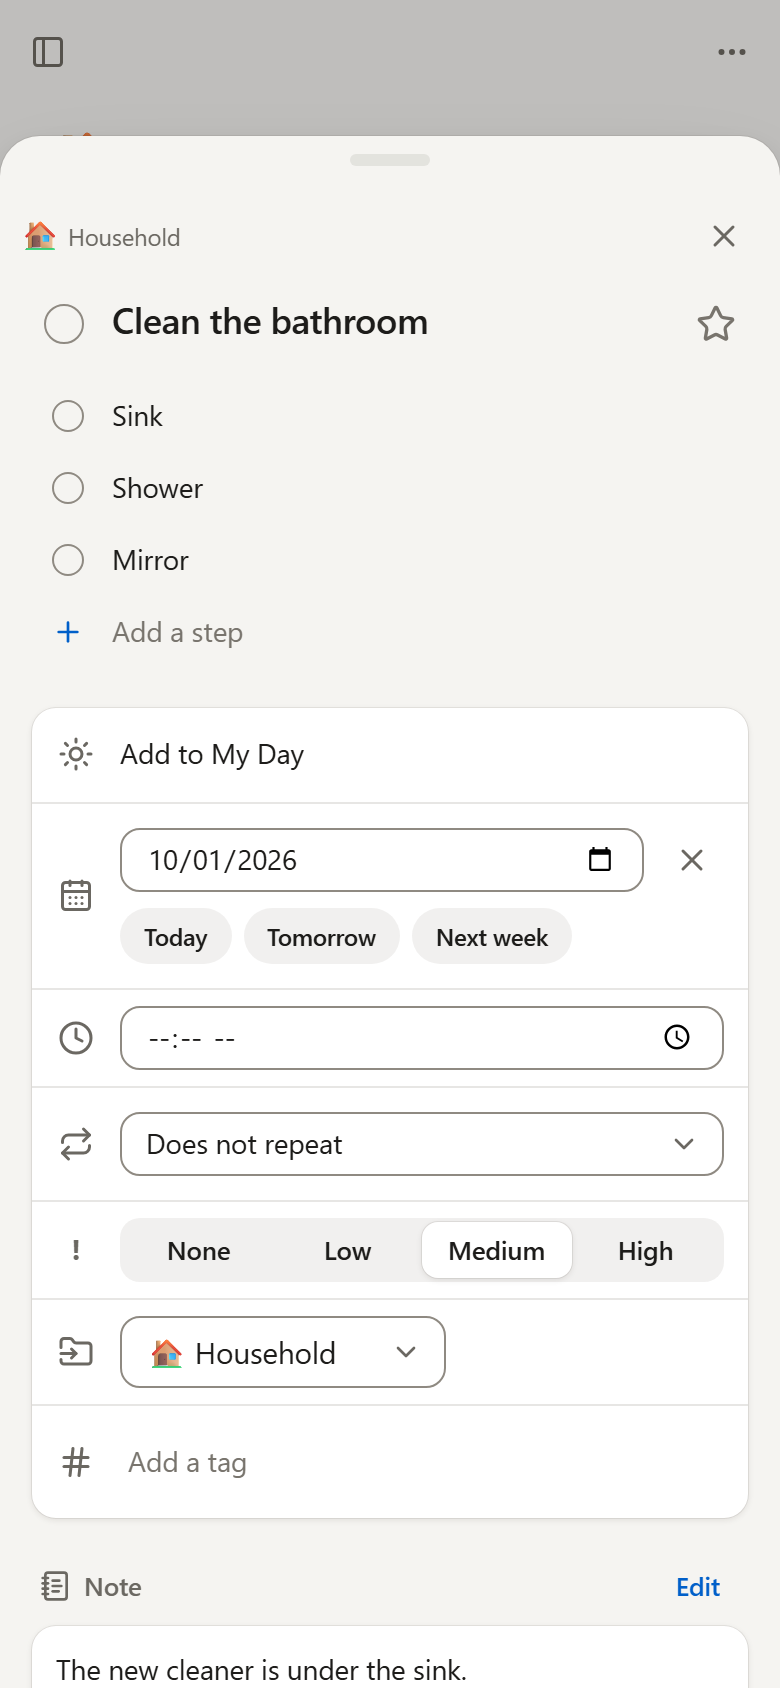
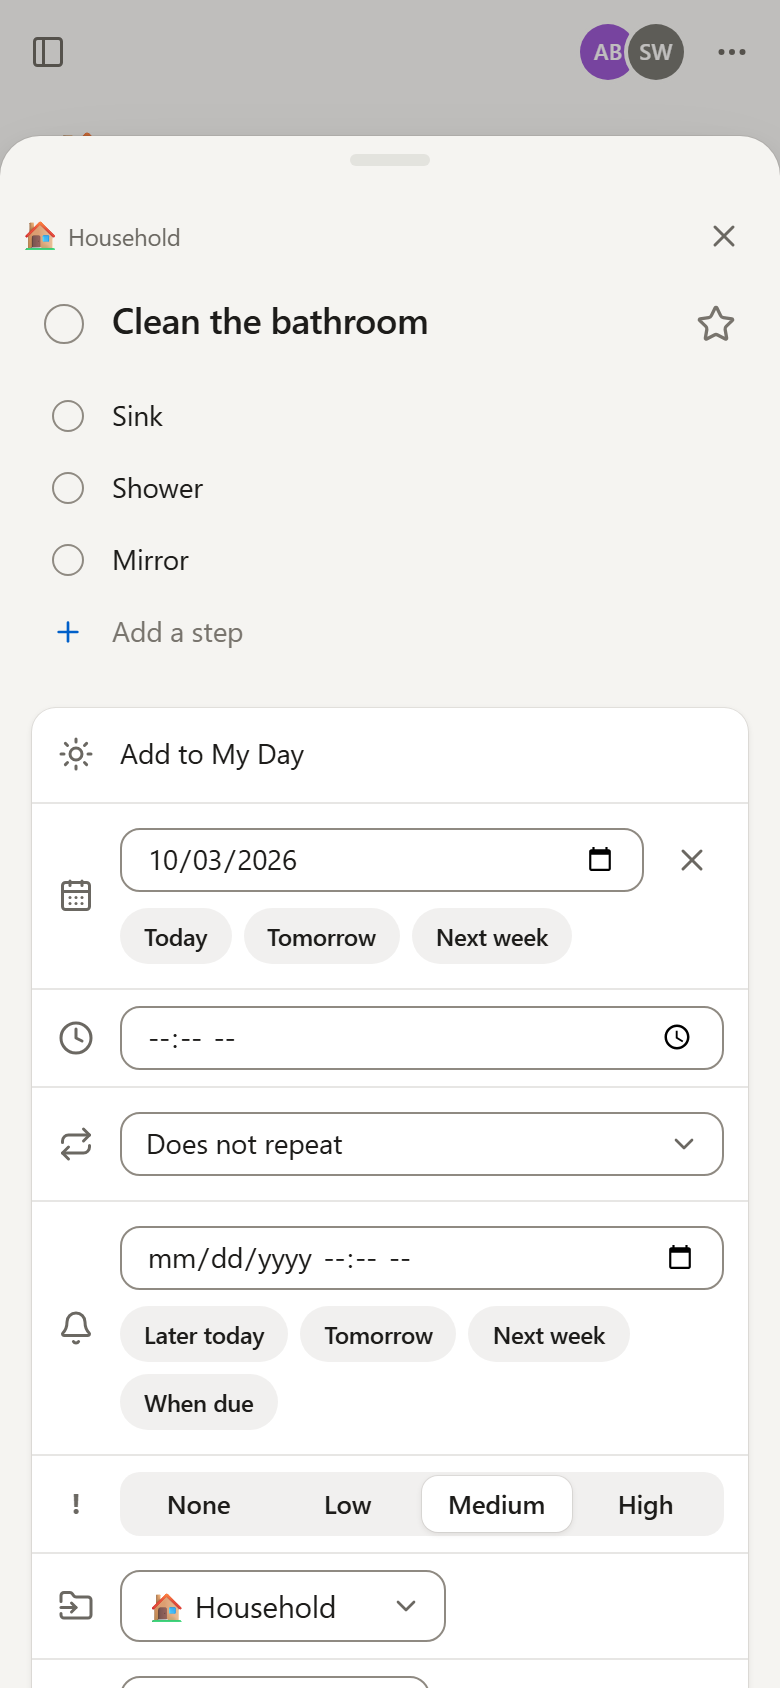
docs: refresh the screenshots and add shared lists and statistics
New screenshots in light and dark mode from the current version, with
sample data that includes a shared list, an assigned task, a reminder,
an attachment and twelve weeks of history. The README no longer calls
Crystal early development and describes the automatic backups.

diff --git a/README.md b/README.md
@@ -14,10 +14,6 @@
   <a href="LICENSE"><img src="https://img.shields.io/badge/license-AGPL--3.0-blue" alt="License: AGPL-3.0" /></a>
 </p>
 
-> [!NOTE]
-> **Crystal is in early development.** Everything below is ready to use; the road to 1.0 is
-> about polish. See the [roadmap](ROADMAP.md).
-
 <p align="center">
   <picture>
     <source media="(prefers-color-scheme: dark)" srcset="docs/screenshots/desktop-dark.png" />
@@ -33,7 +29,19 @@
   &nbsp;
   <picture>
     <source media="(prefers-color-scheme: dark)" srcset="docs/screenshots/phone-details-dark.png" />
-    <img src="docs/screenshots/phone-details-light.png" width="260" alt="Task details as a bottom sheet on a phone, with steps and a note." />
+    <img src="docs/screenshots/phone-details-light.png" width="260" alt="Task details as a bottom sheet on a phone, with steps, due date, reminder and priority." />
+  </picture>
+</p>
+
+<p align="center">
+  <picture>
+    <source media="(prefers-color-scheme: dark)" srcset="docs/screenshots/shared-dark.png" />
+    <img src="docs/screenshots/shared-light.png" width="420" alt="A household list shared with a second person: their avatars above the list, and a task assigned to them with steps and an attached photo." />
+  </picture>
+  &nbsp;
+  <picture>
+    <source media="(prefers-color-scheme: dark)" srcset="docs/screenshots/stats-dark.png" />
+    <img src="docs/screenshots/stats-light.png" width="420" alt="Statistics: tasks done today, the current streak, the total, open tasks, and a bar chart of tasks completed per week over twelve weeks." />
   </picture>
 </p>
 
@@ -102,15 +110,14 @@
   your own – adjusted automatically so text always stays readable.
 - **Works everywhere.** Phone, tablet and desktop, with touch targets of at least 44 px.
 - **Accessible.** WCAG 2.1 AA contrast is verified by tests; every screen is checked with
-  axe and works with the keyboard alone.
+  axe, works with the keyboard alone and tells screen readers which page opened.
 - **German and English**, more languages are easy to add.
 - **Private by design.** No telemetry, no tracking, and no external requests except the
   notification services you turn on yourself.
 - **Secure defaults.** Argon2id passwords, HttpOnly session cookies, CSRF protection,
   rate limiting, strict Content Security Policy, a non-root container without a shell.
 
-**Coming next** – polish for 1.0: animations, accessibility and performance reviews, and
-documentation with screenshots. Details in the [roadmap](ROADMAP.md).
+**What's next?** Ideas for after 1.0 are collected in the [roadmap](ROADMAP.md).
 
 ## Quick start
 
@@ -158,9 +165,10 @@ updating across major versions. To stay on a release line, set `CRYSTAL_VERSION`
 
 ## Backups
 
-All data – database, secret key and later attachments – lives in the `crystal-data` volume.
-How to back it up and restore it: [docs/backup.md](docs/backup.md). Automatic, scheduled
-backups are planned (see the [roadmap](ROADMAP.md)).
+All data – database, secret key and attachments – lives in the `crystal-data` volume. Crystal
+backs up the database every 24 hours and keeps the newest seven copies; administrators can
+also make and download a backup under **Settings → Backups**. How to back up the whole volume
+and restore it: [docs/backup.md](docs/backup.md).
 
 ## Development
 
